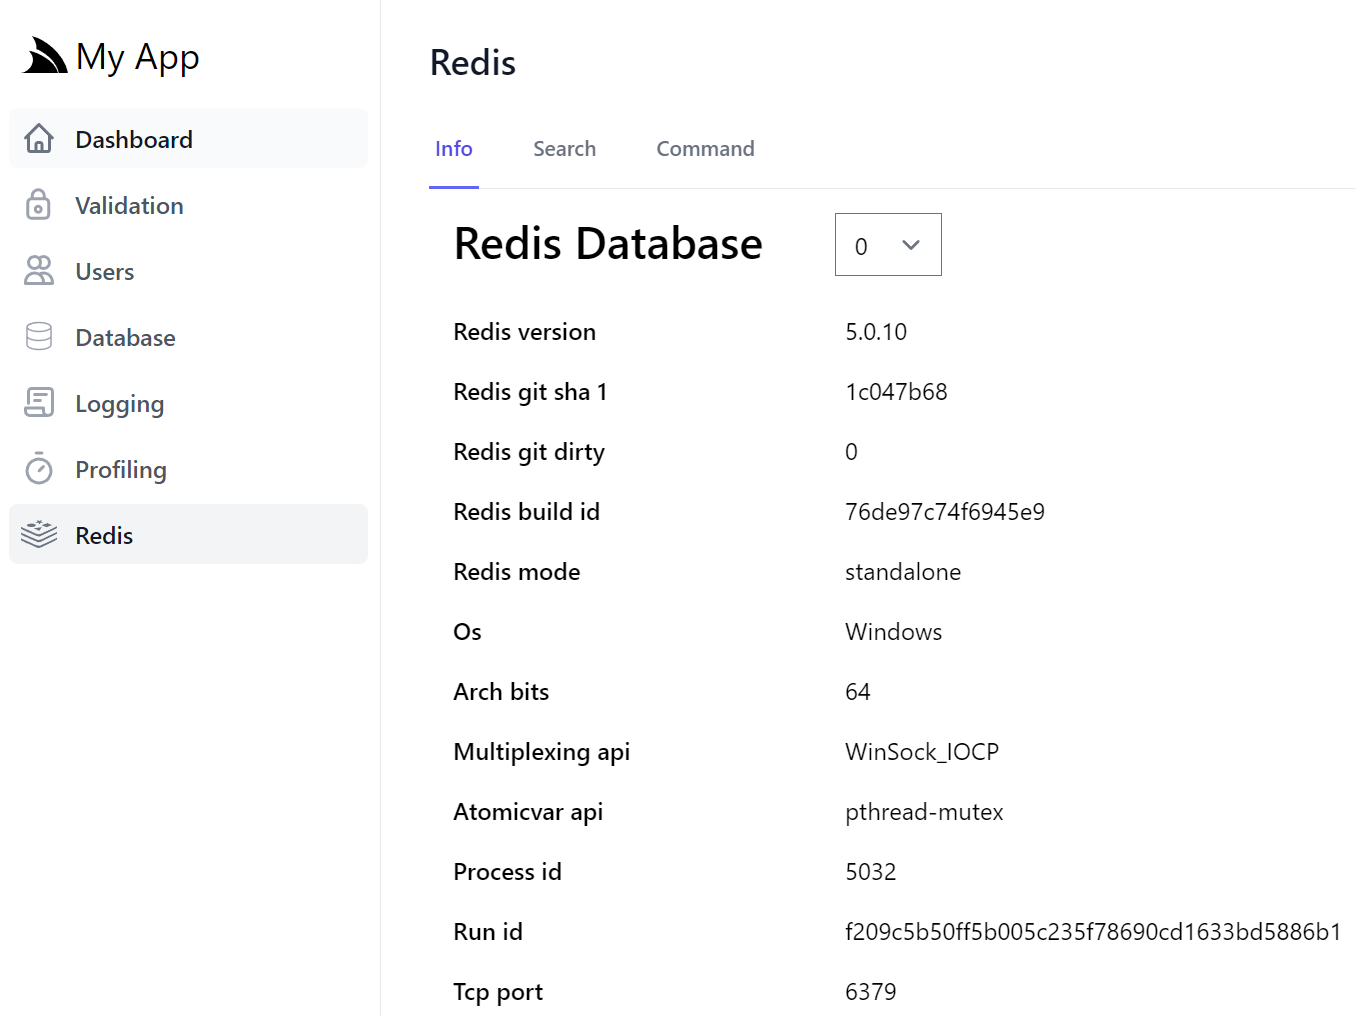
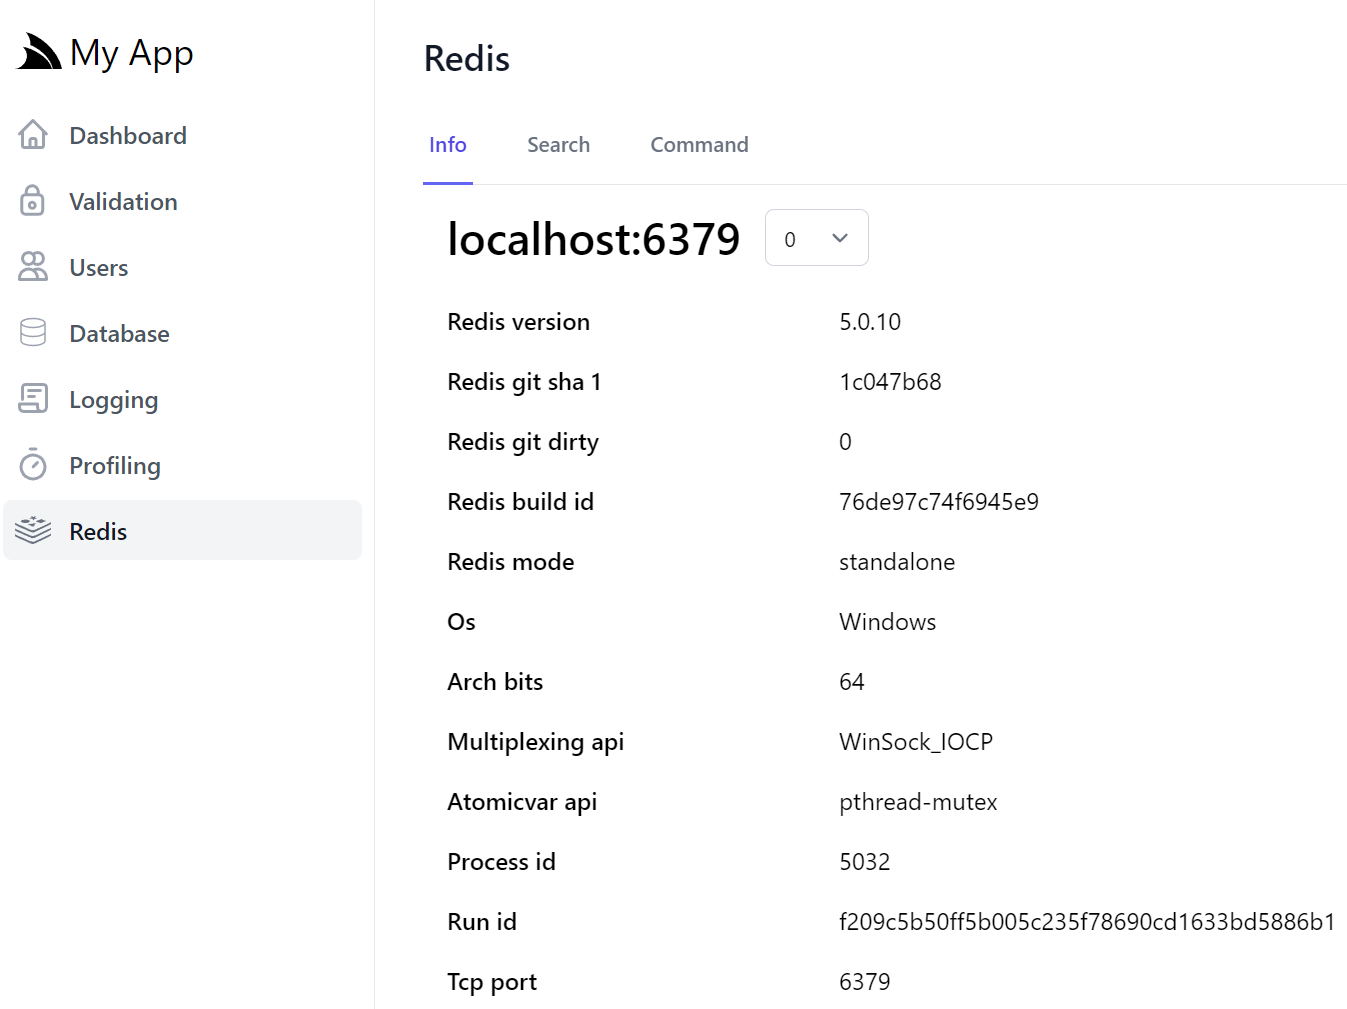
Update redis docs

diff --git a/docs/admin-ui-redis.md b/docs/admin-ui-redis.md
@@ -6,6 +6,16 @@ The Redis Admin UI lets you manage your App's configured Redis Server with a use
 
 <iframe class="video-hd" src="https://www.youtube.com/embed/K4459zrrxOY" frameborder="0" allow="accelerometer; autoplay; clipboard-write; encrypted-media; gyroscope; picture-in-picture" allowfullscreen></iframe>
 
+### Redis Stats on Dashboard
+
+The [Admin UI Dashboard](/admin-ui#dashboard) contains valuable insight into monitoring the health of your App's redis usage with the client & server counters:
+
+[![](/images/admin-ui/admin-ui-redis-stats.png)](/admin-ui#dashboard)
+
+::: tip
+A description of each of these stats is available in the [Redis Stats docs](/redis/stats)
+:::
+
 ## Info
 
 The Redis Admin home page shows the output of the Redis [INFO](https://redis.io/commands/info/) command containing detailed information on the remote redis server:
@@ -13,6 +23,22 @@ The Redis Admin home page shows the output of the Redis [INFO](https://redis.io/
 ![](/images/admin-ui/admin-ui-redis.png)
 
 By default it uses the App's configured database but can easily switch between Redis databases with the numbered Database dropdown.
+
+### Modify Redis Connection
+
+Changing your App's Redis Configuration at runtime can be enabled with:
+
+```csharp
+Plugins.Add(new AdminRedisFeature {
+    ModifiableConnection = true
+});
+```
+
+Which will linkify the Redis Connection string to open the **Change Connection** Dialog:
+
+![](/images/admin-ui/admin-ui-redis-connection.png)
+
+Be aware this will change your App's Redis Connection at runtime to different redis server than what it was configured with, which can be useful if you have a warm stand-by Redis server you want to switch to without redeploying your App.
 
 ## Search
 
@@ -90,3 +116,5 @@ Plugins.Add(new AdminRedisFeature {
 ## Profile App Redis Usage
 
 The command history maintains a log for all commands executed in the Redis Admin UI, you can inspect the redis commands executed by your Services with the [Redis Profiling](/admin-ui-profiling#redis-profiling) built into the [Admin Profiling UI](/admin-ui-profiling).
+
+[![](/images/admin-ui/profiling-redis-CommandAfter.png)](/admin-ui-profiling#redis-profiling)

diff --git a/docs/redis/stats.md b/docs/redis/stats.md
@@ -54,7 +54,15 @@ class provides better visibility and introspection into your running instances:
     </tr>
 </table>
 
-You can get and print a dump of all the stats at anytime with:
+## Redis Stats in Admin UI Dashboard
+
+These Stats are displayed in the [Admin UI Dashboard](/admin-ui-redis#redis-stats-on-dashboard)
+
+[![](/images/admin-ui/admin-ui-redis-stats.png)](/admin-ui-redis#redis-stats-on-dashboard)
+
+## Log to Console
+
+Alternatively you can get and print a dump of all the stats at anytime with:
 
 ```csharp
 RedisStats.ToDictionary().PrintDump();
